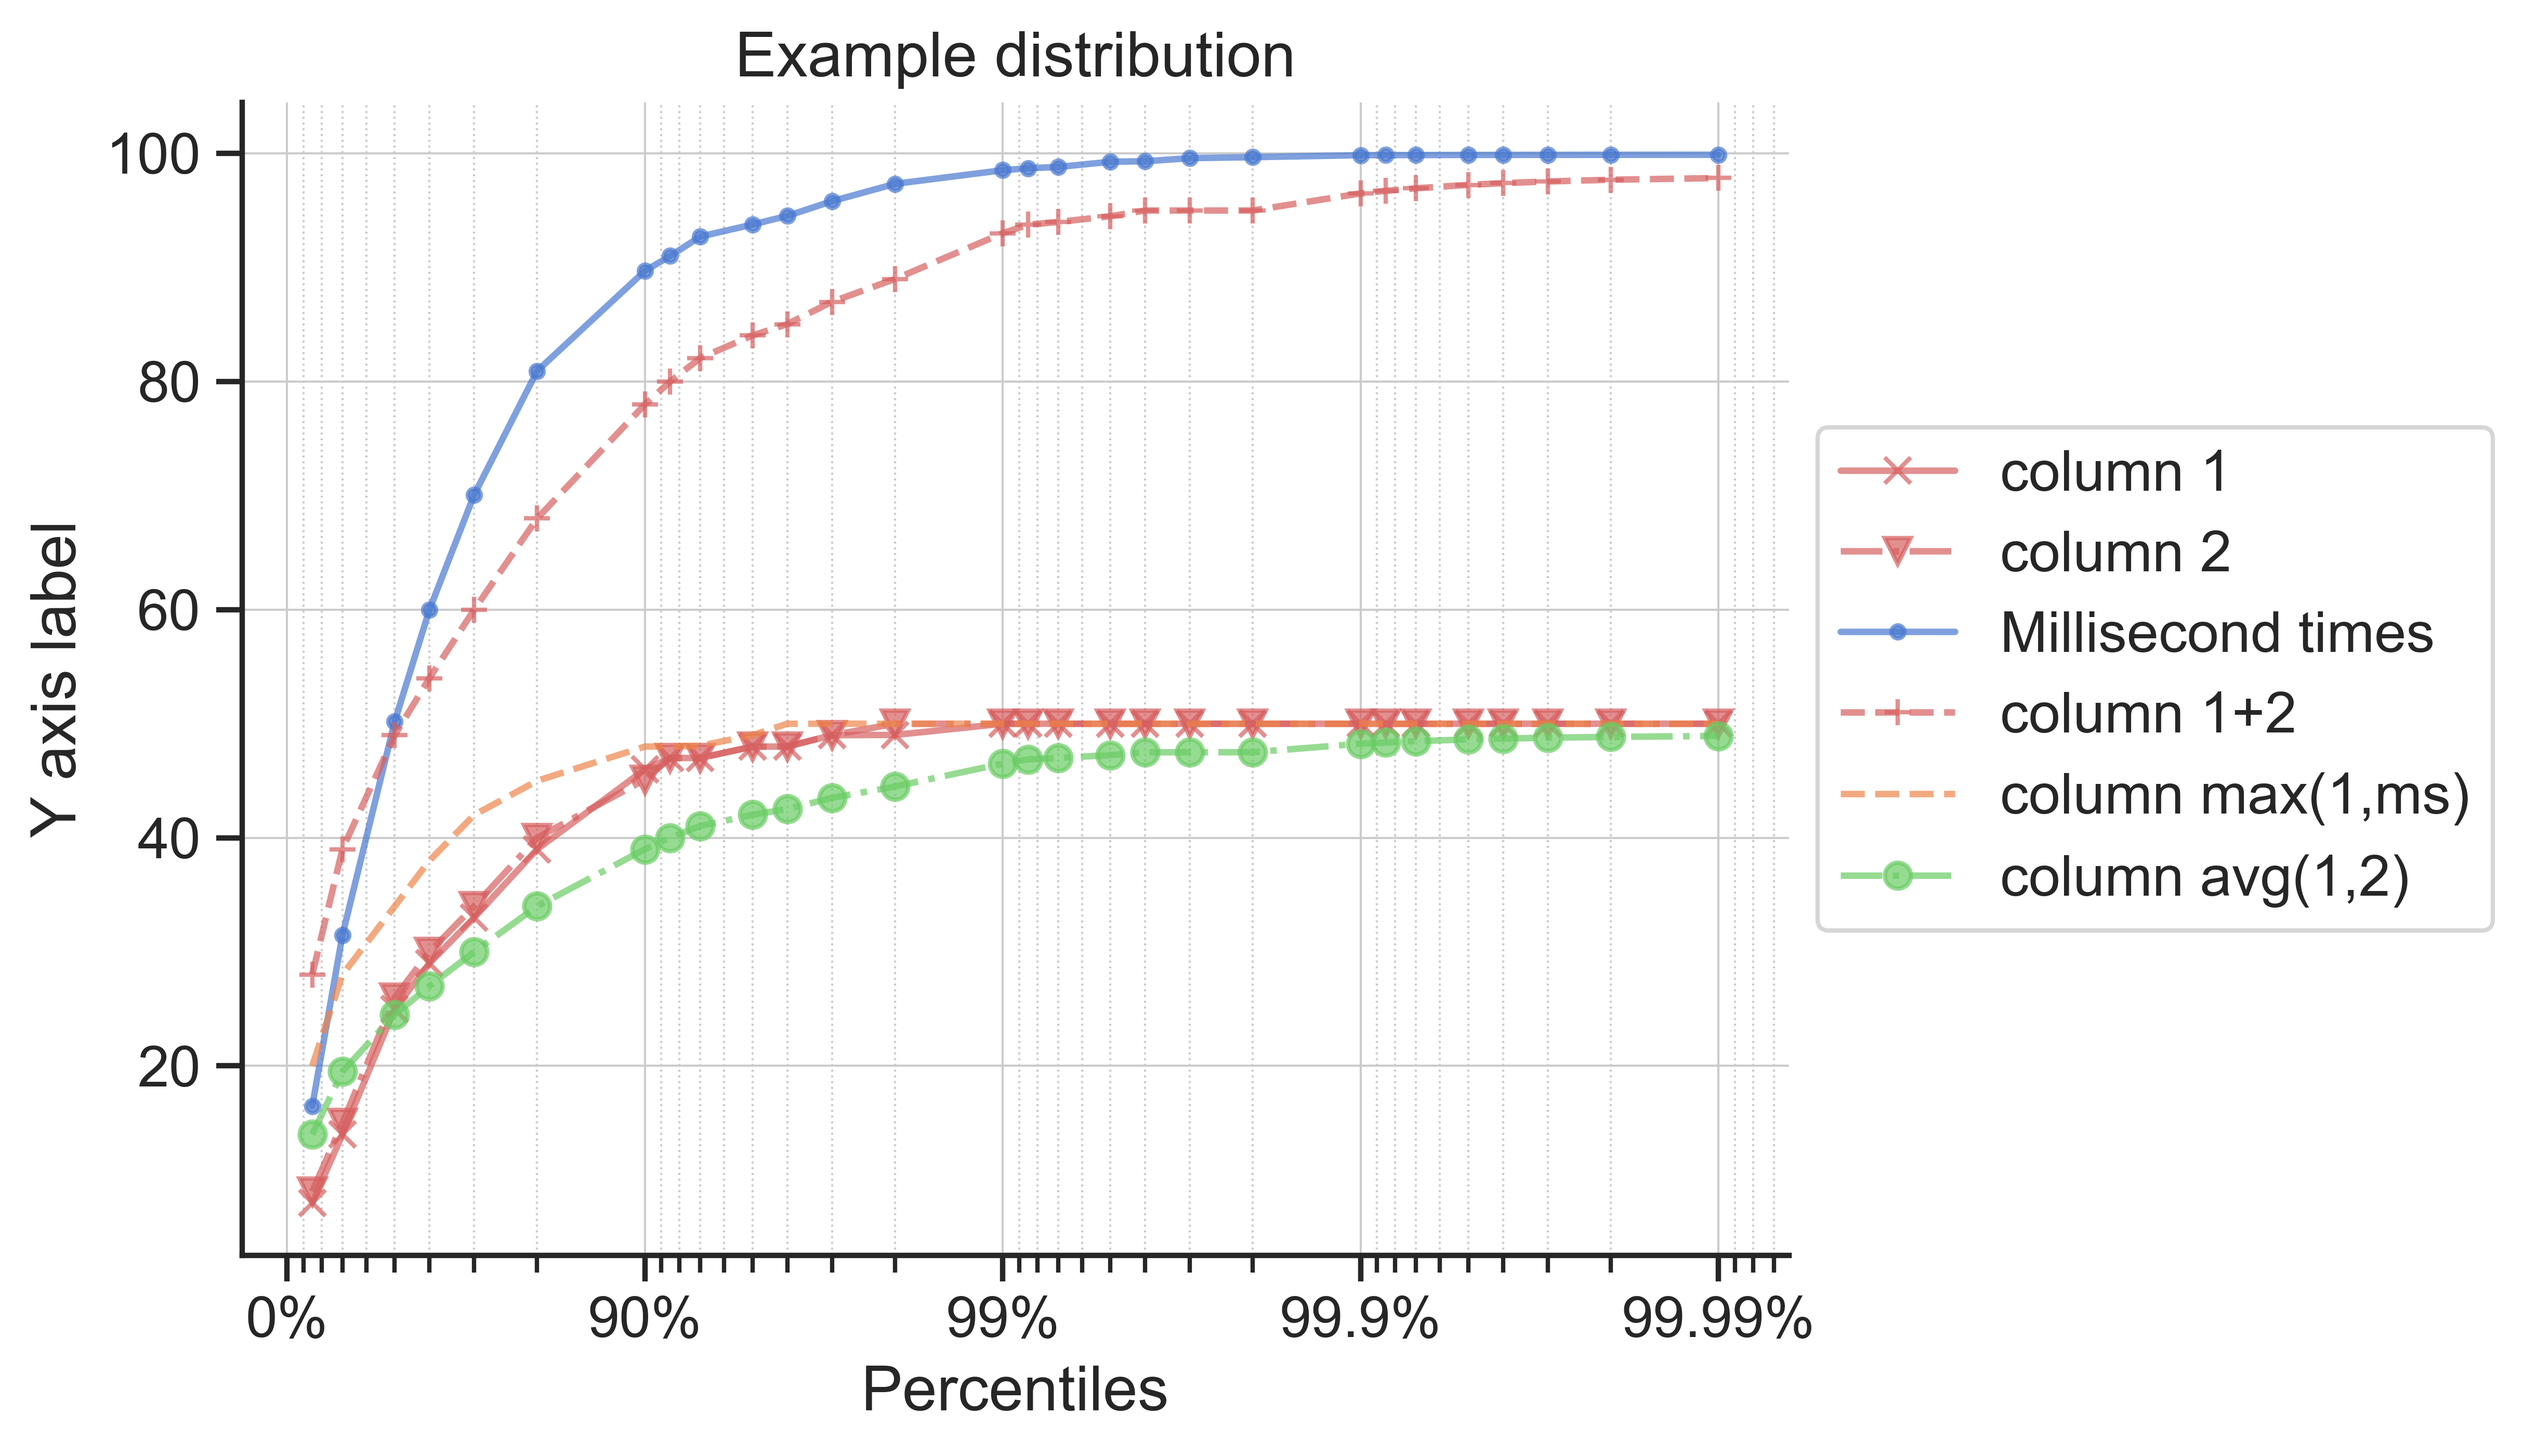
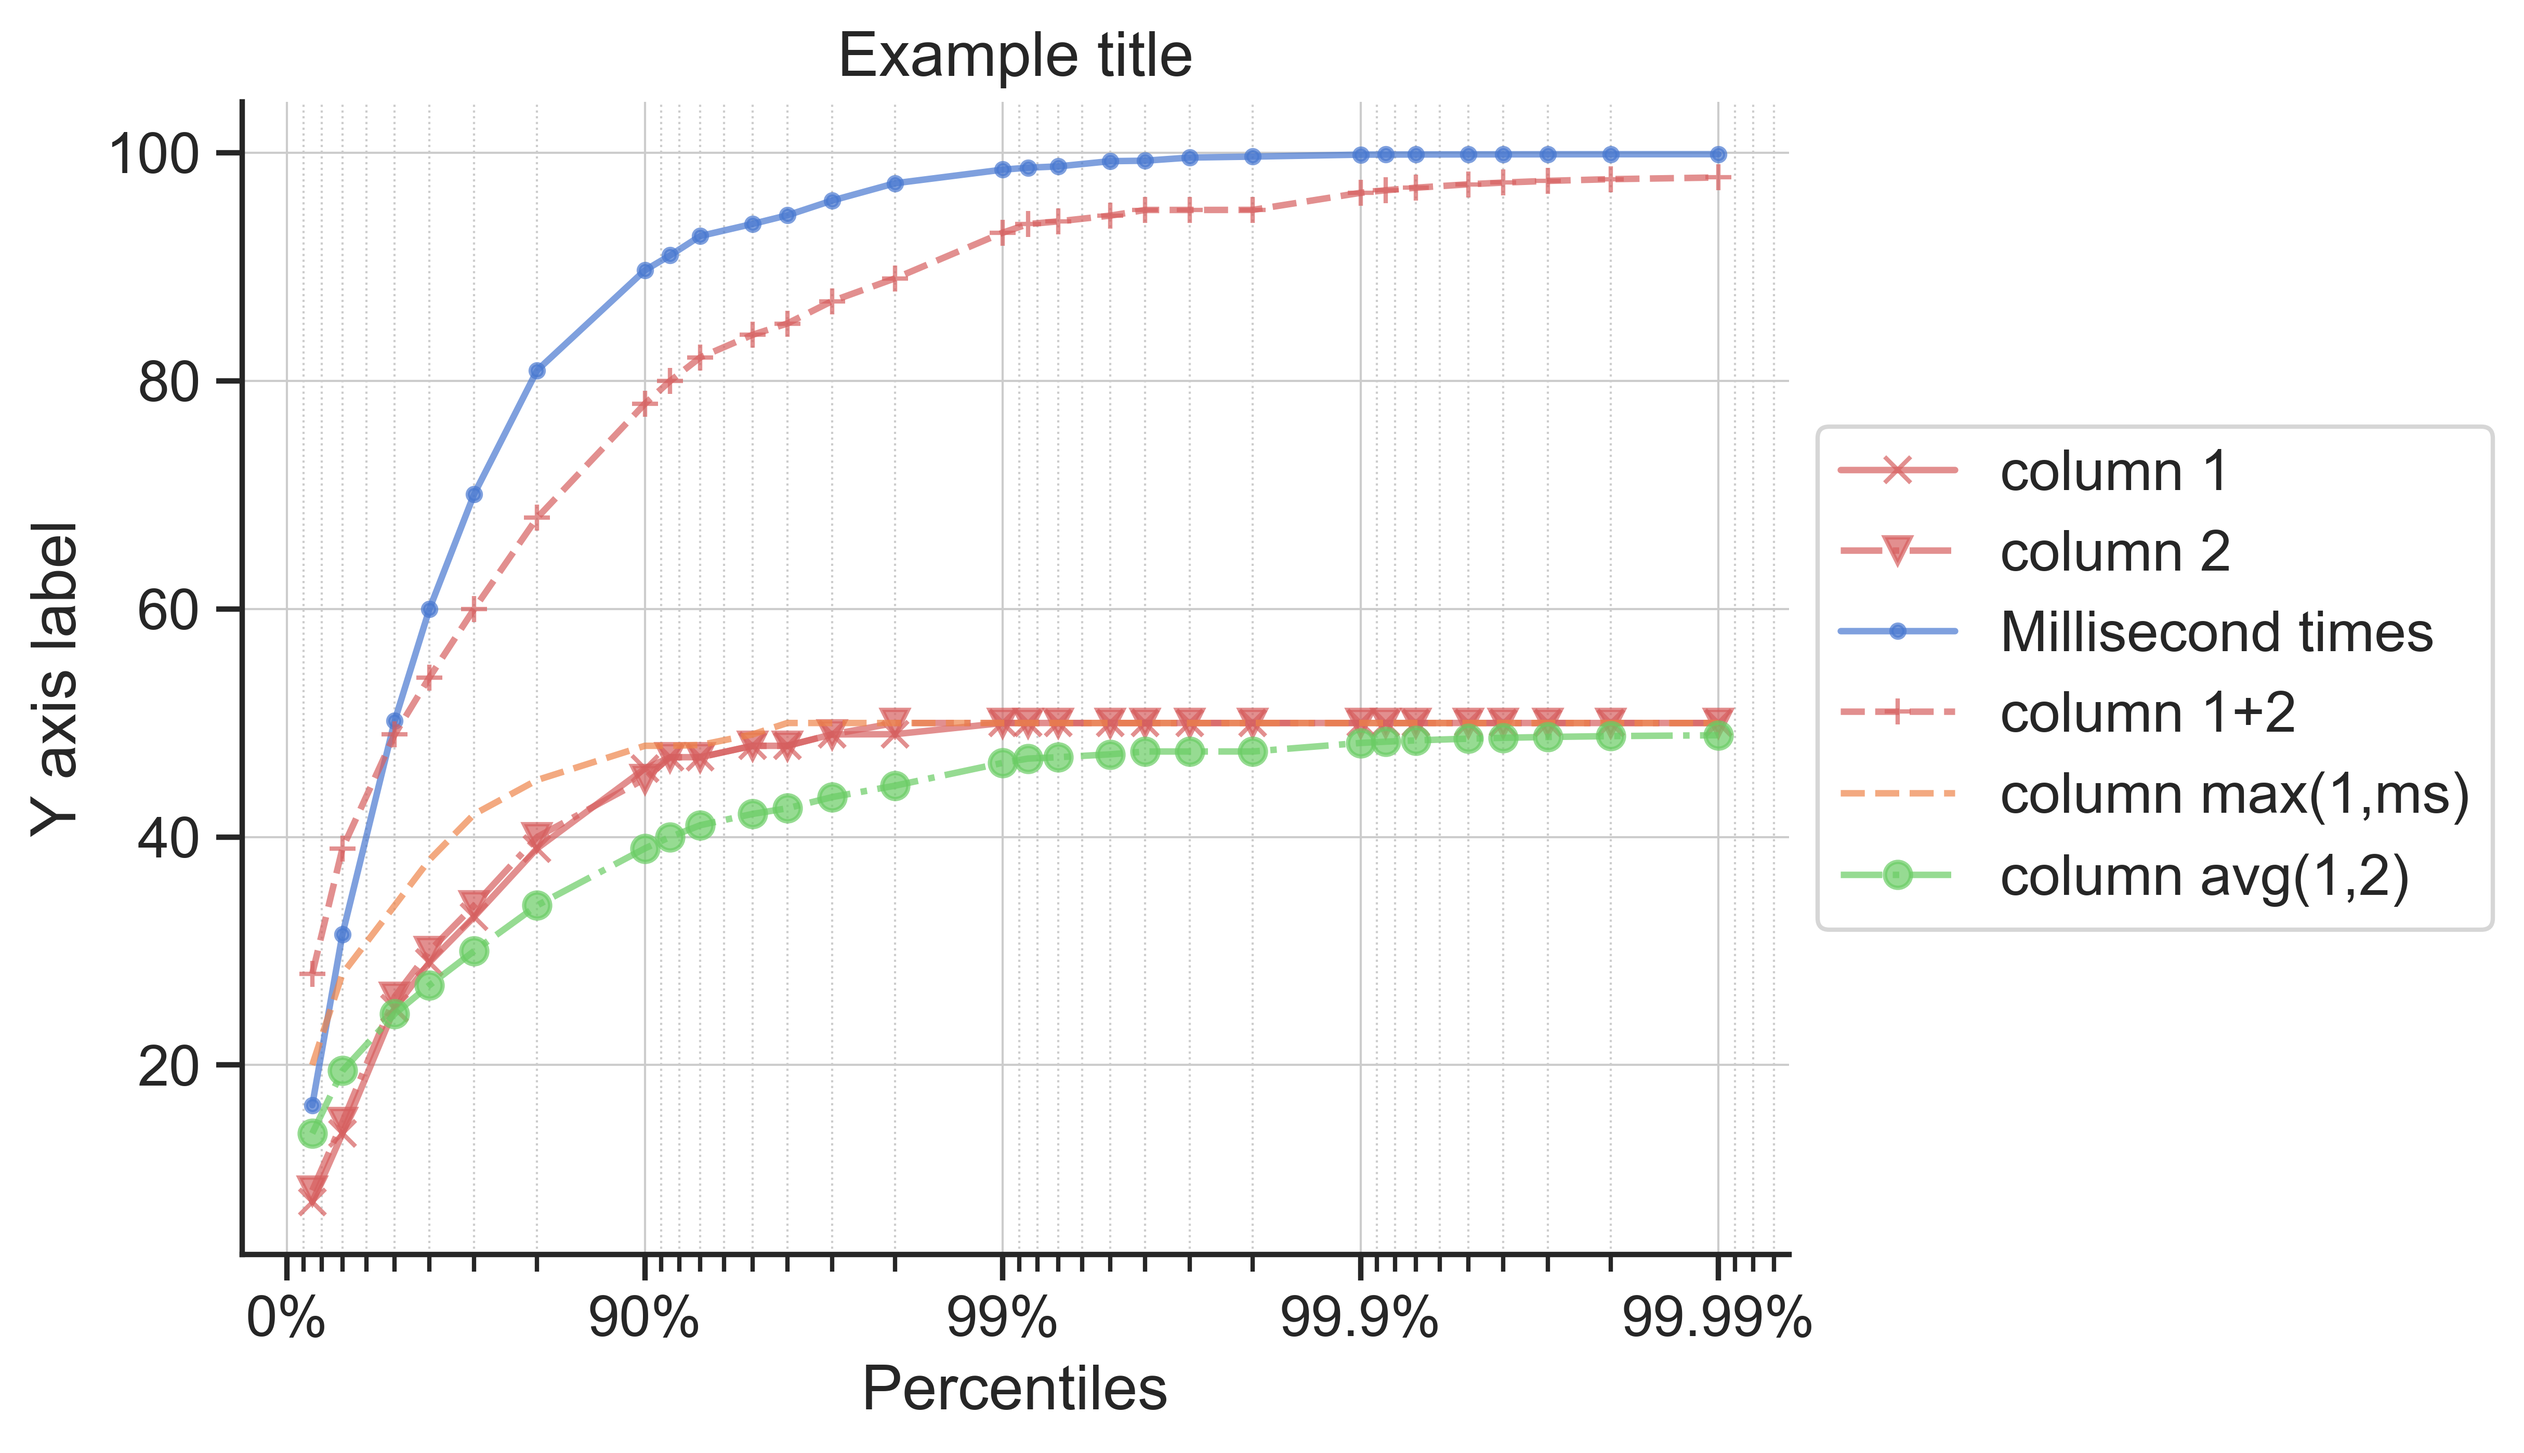
Improve readme

Changed region(s): [[0.2799, 0.0311, 0.5286, 0.0622]]

diff --git a/configs/example_config_dark.py b/configs/example_config_dark.py
@@ -1,4 +1,4 @@
-# This file serves as an example plot config
+# This file serves as an example plot config (with dark mode)
 
 # Import custom functions (see customfunctions.py)
 from customfunctions import *
@@ -7,7 +7,7 @@ from customfunctions import *
 String: title
 The title of the plot
 """
-title = 'Example distribution'
+title = 'Example title'
 
 """
 String: x_axis_label

diff --git a/configs/example_config.py b/configs/example_config.py
@@ -7,7 +7,7 @@ from customfunctions import *
 String: title
 The title of the plot
 """
-title = 'Example distribution'
+title = 'Example title'
 
 """
 String: x_axis_label

diff --git a/README.md b/README.md
@@ -1,6 +1,6 @@
 # prettypercentiles
 
-Python utility for pretty percentile plots. Ideal for plotting latency graphs.
+Python utility for pretty percentile plots. Ideal for plotting latency graphs from csv files.
 
 ## Usage
 
@@ -29,6 +29,26 @@ Run plotter:
 ```
 python prettypercentiles.py -c configs.example_config
 ```
+
+## Configuration
+
+Configuration files are located in `configs/`
+
+The configuration file is just a Python file with variables. If you want to make your own copy the `example_config.py` to a new file in the same folder.
+
+There are comments for each setting, the most important ones are these:
+
+### `tuple` of `(csv filename, column name, preprocessing function)`
+
+These define where and which column to get and an optional preprocessing function to run it through
+
+### `label_map`
+
+A dict which maps the above columns to labels in your plot. The key is the label in the plot and the value is the [tuple](<#`tuple`-of-`(csv-filename,-column-name,-preprocessing-function)`>)
+
+### `combined_columns`
+
+A dict that combine several columns into one using a given function. The key is the label in the plot and the value is a list of 2 or more [tuples](<#`tuple`-of-`(csv-filename,-column-name,-preprocessing-function)`>)
 
 ## Output
 
